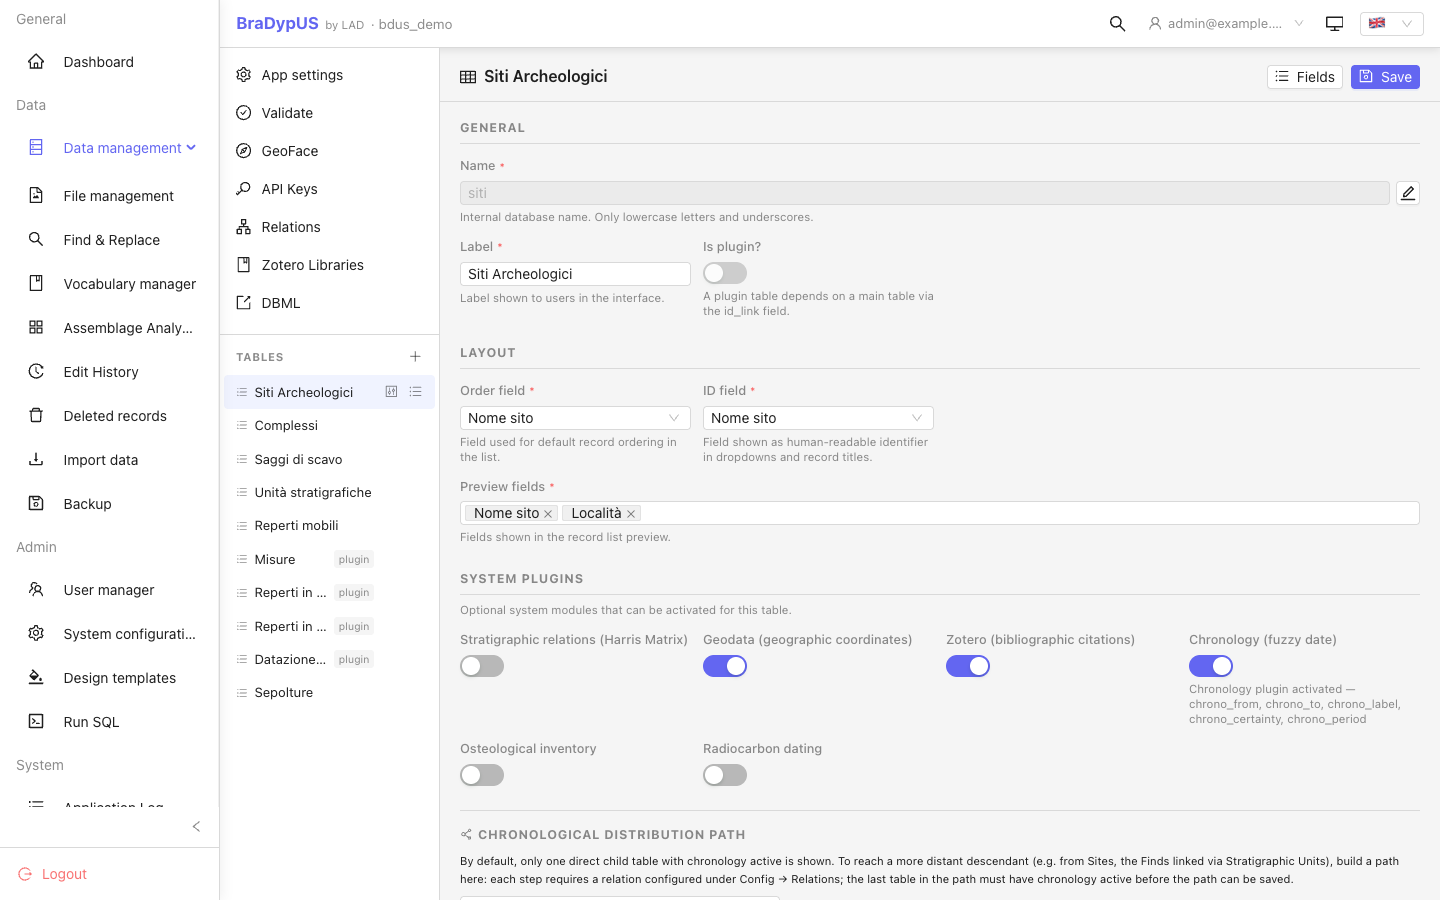
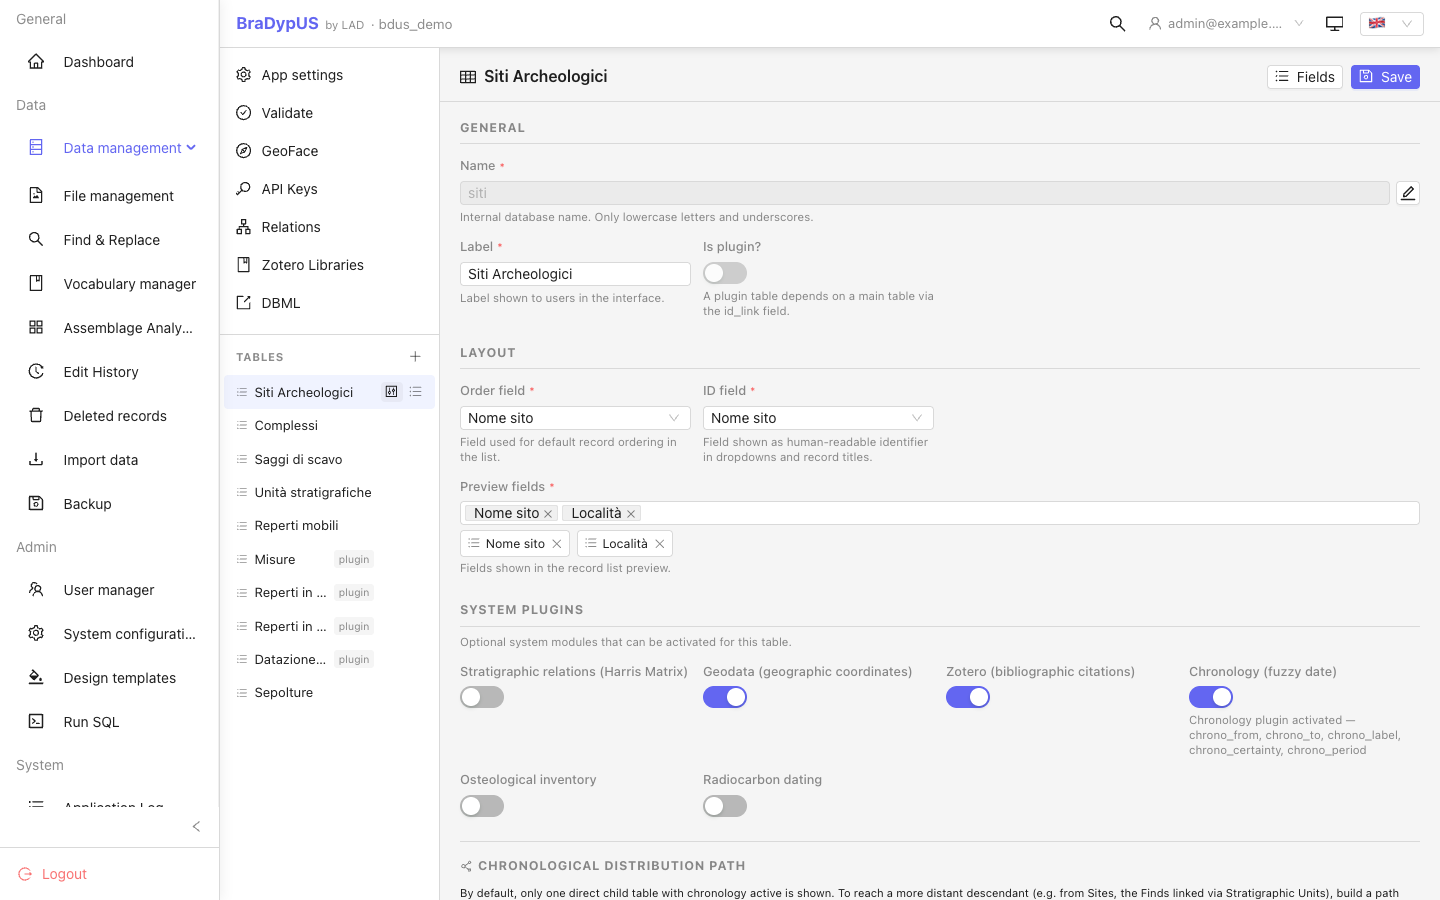
feat(config): make Preview fields reorderable by drag (#60)
The multi-select in Config -> Tables still adds/removes fields; a new
row of chips below it (drag handle, same sortablejs pattern already
used by the record file gallery) lets you drag them into the order
they should appear in the record list, instead of clearing the whole
selection and re-picking every field in the right order. Frontend
only -- form.preview was already a plain ordered array, unchanged on
the backend.

While in there: corrected two docs pages that still described a
comma-separated text field, which hasn't existed since the AntD
migration, and re-shot table-settings.png.

Changed region(s): [[0.3125, 0.5911, 0.9688, 1.0], [0.8125, 0.6844, 0.9688, 0.84], [0.6562, 0.6844, 0.7812, 0.8089]]

diff --git a/bdus-app/src/components/config/ConfigTableForm.vue b/bdus-app/src/components/config/ConfigTableForm.vue
@@ -111,7 +111,7 @@
 
         </div>
 
-        <!-- Preview fields (#21: MultiSelect) -->
+        <!-- Preview fields (#21: MultiSelect; #reorder: drag handle chips) -->
         <div class="cfg-form-field">
           <label>{{ t('preview_flds') }} <span class="cfg-req">*</span></label>
           <ASelect
@@ -121,6 +121,23 @@
             size="small"
             :placeholder="t('select_fields')"
           />
+          <div v-if="form.preview.length" ref="previewSortableEl" class="preview-chip-list">
+            <span
+              v-for="fld in form.preview"
+              :key="fld"
+              :data-field="fld"
+              class="preview-chip"
+            >
+              <span class="drag-handle" :title="t('drag_to_sort')"><BarsOutlined /></span>
+              <span class="preview-chip-label">{{ fieldLabels[fld] ?? fld }}</span>
+              <button
+                type="button"
+                class="preview-chip-remove"
+                :title="t('remove_field')"
+                @click="removePreviewField(fld)"
+              ><CloseOutlined /></button>
+            </span>
+          </div>
           <small class="cfg-hint">{{ t('help_table_preview_flds') }}</small>
         </div>
       </section>
@@ -233,8 +250,9 @@
 </template>
 
 <script setup>
-import { CheckOutlined, DeleteOutlined, EditOutlined, LoadingOutlined, SaveOutlined, TableOutlined, UnorderedListOutlined } from '@ant-design/icons-vue'
-import { ref, computed, watch, onMounted } from 'vue'
+import { BarsOutlined, CheckOutlined, CloseOutlined, DeleteOutlined, EditOutlined, LoadingOutlined, SaveOutlined, TableOutlined, UnorderedListOutlined } from '@ant-design/icons-vue'
+import { ref, computed, watch, onMounted, onUnmounted } from 'vue'
+import Sortable from 'sortablejs'
 import {
   Button as AButton,
   Modal as AModal,
@@ -302,6 +320,39 @@ const radiocarbonActive = computed(() => form.value?.plugin?.includes(`${props.t
 const fieldOptions = computed(() =>
   Object.entries(fieldLabels.value).map(([k, v]) => ({ value: k, label: v }))
 )
+
+// ── Preview fields: drag-to-reorder (mirrors FileGallery.vue's pattern) ────
+const previewSortableEl = ref(null)
+let   previewSortable    = null
+
+function initPreviewSortable() {
+  if (!previewSortableEl.value) return
+  previewSortable = Sortable.create(previewSortableEl.value, {
+    handle:    '.drag-handle',
+    animation: 150,
+    onEnd:     () => {
+      form.value.preview = [...previewSortableEl.value.children].map(el => el.dataset.field)
+    },
+  })
+}
+
+function destroyPreviewSortable() {
+  previewSortable?.destroy()
+  previewSortable = null
+}
+
+// The chip list only exists in the DOM while form.preview.length > 0 (v-if) —
+// (re)create/destroy Sortable whenever that toggles.
+watch(previewSortableEl, (el) => {
+  destroyPreviewSortable()
+  if (el) initPreviewSortable()
+})
+
+function removePreviewField(fld) {
+  form.value.preview = form.value.preview.filter(f => f !== fld)
+}
+
+onUnmounted(destroyPreviewSortable)
 
 // ── Data loading ───────────────────────────────────────────────────────────
 async function load() {
@@ -652,6 +703,55 @@ onMounted(load)
   color: var(--p-red-600);
   margin: 0;
 }
+
+/* Preview fields: reorderable chips */
+.preview-chip-list {
+  display: flex;
+  flex-wrap: wrap;
+  gap: 0.4rem;
+}
+
+.preview-chip {
+  display: flex;
+  align-items: center;
+  gap: 0.3rem;
+  padding: 0.15rem 0.4rem;
+  border: 1px solid var(--p-content-border-color);
+  border-radius: 4px;
+  background: var(--p-content-background);
+  font-size: 0.78rem;
+}
+
+.preview-chip.sortable-ghost {
+  opacity: 0.4;
+  background: var(--p-primary-50, #e8f0fe);
+}
+
+.preview-chip .drag-handle {
+  color: var(--p-text-muted-color);
+  cursor: grab;
+  font-size: 0.85rem;
+  line-height: 1;
+}
+.preview-chip .drag-handle:active { cursor: grabbing; }
+
+.preview-chip-label {
+  white-space: nowrap;
+}
+
+.preview-chip-remove {
+  display: flex;
+  align-items: center;
+  background: none;
+  border: none;
+  padding: 0;
+  margin-left: 0.1rem;
+  color: var(--p-text-muted-color);
+  cursor: pointer;
+  font-size: 0.72rem;
+  line-height: 1;
+}
+.preview-chip-remove:hover { color: var(--p-red-500); }
 
 /* Rename dialog */
 .cfg-rename-body {

diff --git a/CHANGELOG.md b/CHANGELOG.md
@@ -18,6 +18,17 @@ and this project adheres to [Semantic Versioning](https://semver.org/spec/v2.0.0
 
 ### Added
 
+- **Config → Tables: Preview fields are now reorderable by drag** (#60). The
+  multi-select still adds/removes fields; a new row of chips below it (drag
+  handle, same pattern as the record file gallery) lets you drag them into
+  the order they should appear in the record list, instead of having to
+  clear the whole selection and re-pick every field in the right order.
+  - `bdus-app/src/components/config/ConfigTableForm.vue`
+  - Docs: `bdus-docs/guide/setup/preview-config.md`,
+    `bdus-docs/guide/setup/create-table-sites.md` (both described a
+    comma-separated text field that hasn't existed for a while — corrected
+    while in there), re-shot `table-settings.png`
+
 - **Image settings extended beyond max size**: App settings now optionally
   convert uploaded raster images to a standard web format (WebP or JPG) at a
   configurable quality (1-100, default 85) and DPI (default 72), alongside

diff --git a/bdus-docs/guide/setup/preview-config.md b/bdus-docs/guide/setup/preview-config.md
@@ -9,18 +9,15 @@ which fields are searched by the fast-search box.
 
 ## Setting preview fields
 
-In **Config → Tables**, select a table and edit the **Preview fields** property.
-Enter a comma-separated list of field names in the order you want them to appear:
+In **Config → Tables**, select a table (**Table settings** icon) and edit the
+**Preview fields** property: pick the fields from the dropdown, then drag the
+chips below it (using the ☰ handle) into the order you want them to appear.
 
-```
-sigla, descrizione, periodo
-```
+![DataView showing a record list with the configured preview columns](/images/v5/setup/preview-fields-result.png)
 
 The record list will show exactly these columns, in this order.
 The first preview field is also used as the record's display label in cross-table
 dropdowns and in the Harris Matrix node labels.
-
-![DataView showing a record list with the configured preview columns](/images/v5/setup/preview-fields-result.png)
 
 ## Column toggler
 

diff --git a/bdus-docs/guide/setup/create-table-sites.md b/bdus-docs/guide/setup/create-table-sites.md
@@ -29,7 +29,7 @@ Select a table to edit its settings:
 |---|---|
 | **Label** | Display name |
 | **Order field** | Default sort column (e.g. `id` or `date`) |
-| **Preview fields** | Comma-separated column names shown in the record list; also used by fast search |
+| **Preview fields** | Columns shown in the record list (also used by fast search) — pick them from the dropdown, then drag the chips below to set their order |
 | **Plugin tables** | Sub-tables attached inline inside RecordView |
 | **Backlink tables** | Tables that reference this table; shown as a read-only panel in RecordView |
 | **Cross-table links** | Tables whose records can be manually linked to records of this table |
